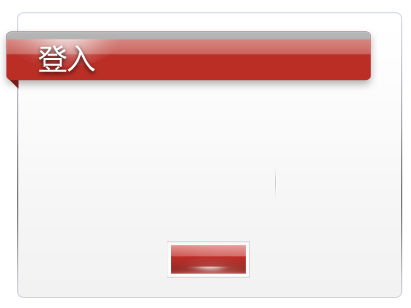
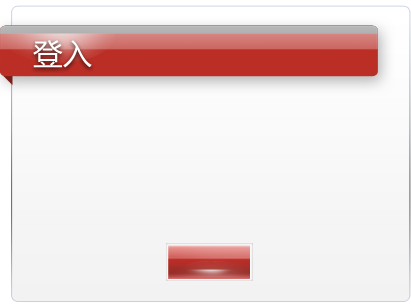
34625619

diff --git a/app/assets/stylesheets/style.css b/app/assets/stylesheets/style.css
@@ -417,10 +417,17 @@ img{border:0}
 }
 
 .pagedomain{
-    margin-top:30px;
-    width:245px;
+    width:157px;
     height:50px;
-    background:url(celueku.jpg)  no-repeat;
+    margin-top:25px;
+    background:url(pagedomain.gif)  no-repeat;
+}
+.pagedomain h1{
+    font:normal 20px Microsoft Yahei, "Times New Roman", Times, serif;
+    color: white;
+    text-align: center;
+    padding-top:8px;
+
 }
 
 
@@ -1777,7 +1784,7 @@ form.signin{
 
 .passwd-inputapp{width:35%;height:22px;font-size:15px;margin:16px 0 0 10px }
 
-.passwd-input{width:35%;height:24px;font-size:15px;margin-top: 16px;margin-left:20px;}
+.passwd-input{width:35%;height:24px;font-size:15px;margin-top: 16px;margin-left:18px;}
 
 /*
 .column{
